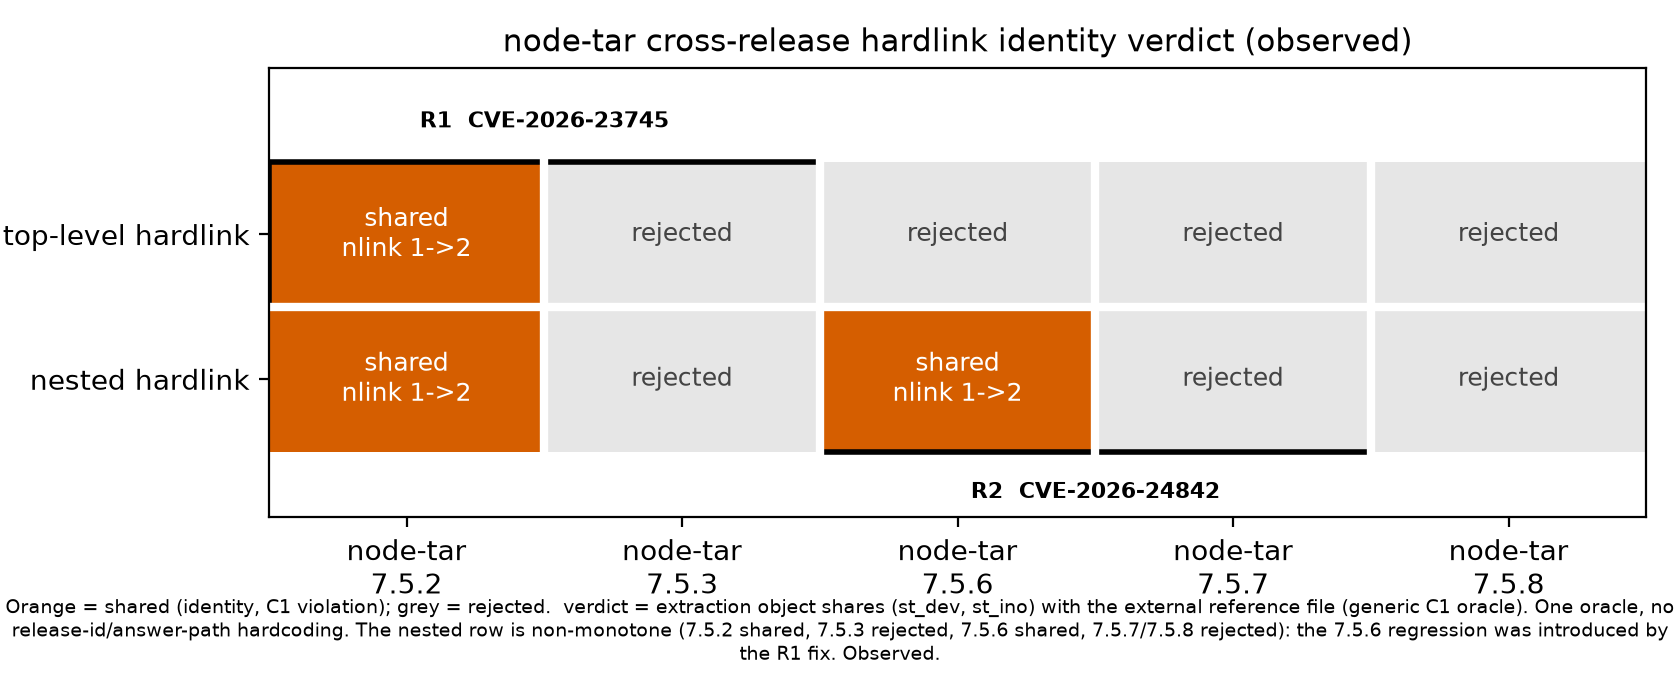
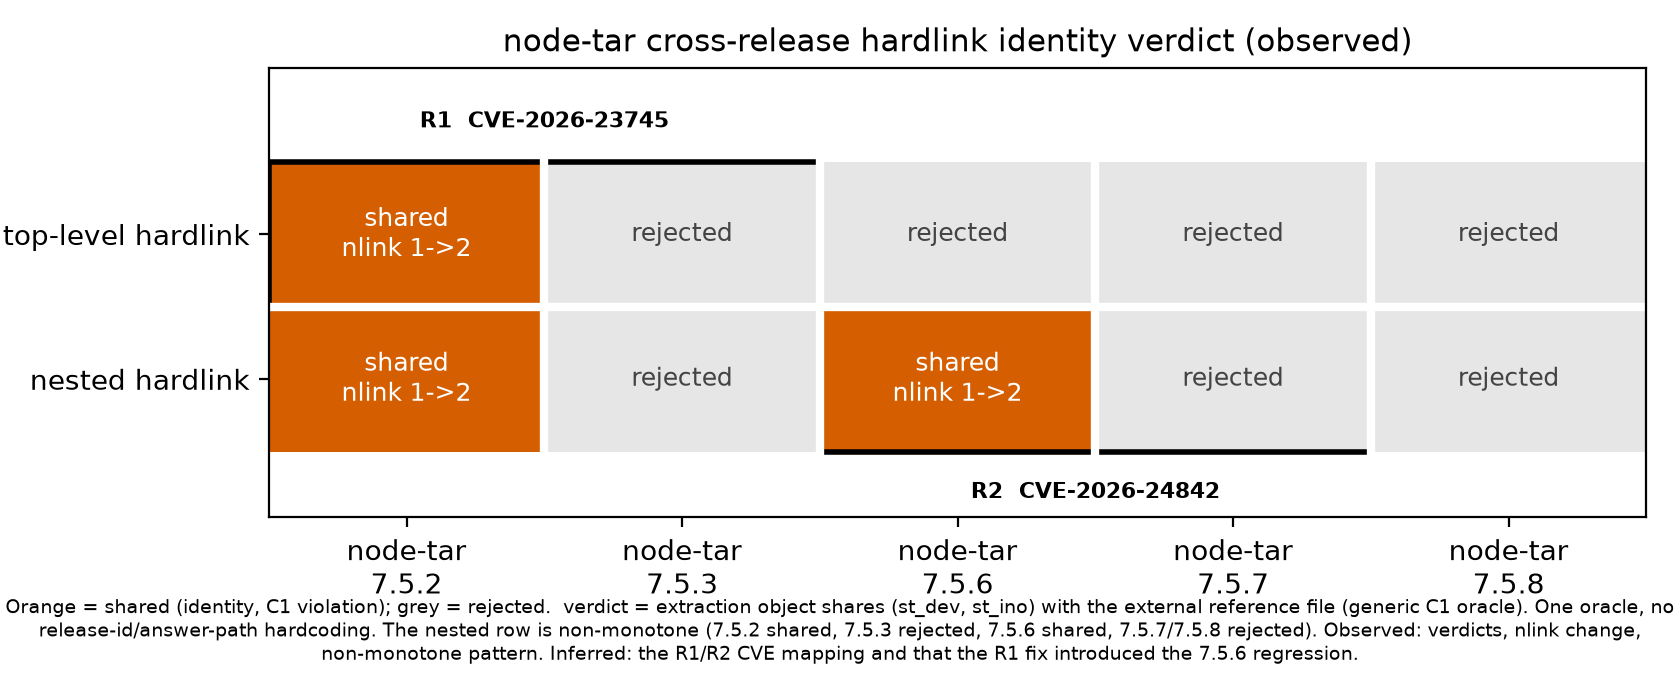
fix(paper): M3·M2 그림 재렌더 — 철회된 인과 문구 제거, inferred 서술 구분
수치는 그대로다.

- render_m3_blind_ablation.py: 제목·캡션·x축 라벨을 Ledger M3 판정(이름 획득 조건의
  관찰, 피드백 인과 미입증; 어휘 미통제)에 맞춘다. 그림 안은 영문이다(렌더 환경에 한글
  폰트 없음). W3 검토 수정 2건 반영: A1을 token-clean 어휘로 표기, 21 hit가 1 lineage이고
  막대 분모가 다르다는 문장 추가.
- render_m2_cross_release.py: 캡션의 회귀 인과 서술과 CVE 대응을 inferred로 구분한다.
- 표 M3 '읽는 법'과 그림 사양을 같은 판정으로 정정한다. 표 데이터 행은 그대로다.

머지 주의: #256 gen_table_m3.py의 SUFFIX가 표 M3 옛 문단을 복제한다. #256과 함께
머지하면 test_m3_render_byte_identical_to_committed와 --verify T-M3 행이 깨지므로
머지 때 SUFFIX를 새 본문에 맞춰야 한다. #256 브랜치는 수정하지 않았다.

Changed region(s): [[0.0, 0.8956, 0.9905, 0.9882]]

diff --git a/paper/figures/render_m3_blind_ablation.py b/paper/figures/render_m3_blind_ablation.py
@@ -18,13 +18,13 @@ from pathlib import Path
 import matplotlib.pyplot as plt
 
 ARMS = [
-    "A3full s11\n(identity obs ON)",
-    "A3blind s11\n(identity obs OFF)",
-    "A1 random floor\n(seeds 1-35)",
+    "A3full s11\n(external name in vocabulary)",
+    "A3blind s11\n(external name removed)",
+    "A1 token-clean vocabulary\nseeds 1-35\n(cannot spell the name)",
 ]
 HITS = [21, 0, 0]
 STEP_NOTES = ["416 steps (pre-abort)", "1475 steps", "33,005 steps"]
-BAR_COLORS = ["#D55E00", "#999999", "#999999"]  # vermillion = discovery; grey = floor
+BAR_COLORS = ["#D55E00", "#999999", "#999999"]  # vermillion = hits observed; grey = none observed
 
 
 def main() -> None:
@@ -38,7 +38,7 @@ def main() -> None:
     ax.set_ylabel("autonomous C1 hits  (C1 and contract_violated)")
     ax.set_ylim(0, 26)
     ax.set_title(
-        "M3: object-identity observation enables autonomous discovery (observed)",
+        "M3: autonomous C1 under the name-acquisition condition (observed)",
         fontsize=11,
     )
     ax.spines["top"].set_visible(False)
@@ -51,13 +51,17 @@ def main() -> None:
         ax.text(x, hits + 2.4, note, ha="center", va="bottom", fontsize=8, color="#333333")
 
     caption = (
-        "Causal contrast: feedback (identity observation) enables discovery; absent -> "
-        "unreachable. This is NOT a rate claim. The trigger is seed-rare (1 of 65 seeds). It "
-        "is not blind discovery (the fuzzer obtains the external name by observation; no "
-        "hardcoded target path / answer seed / proximity reward). node-tar 7.5.2, budget 1500."
+        "Observation under the name-acquisition condition; feedback causation is not established. "
+        "The arms differ in whether the external object's name is in the mutation vocabulary, so "
+        "vocabulary is not held equal and retention/effect feedback is not separated. This is NOT "
+        "a rate claim. The 21 hits are one lineage from one seed, in a run that aborted at step "
+        "416; bars have different denominators (416 / 1475 / 33,005 steps, aborted campaigns "
+        "included). The trigger is seed-rare (1 of 65 seeds). It is not blind discovery (the "
+        "fuzzer obtains the external name by observation; no hardcoded target path / answer seed "
+        "/ proximity reward). node-tar 7.5.2, budget 1500."
     )
     fig.text(0.5, 0.015, caption, ha="center", va="bottom", fontsize=7, wrap=True)
-    fig.subplots_adjust(left=0.1, right=0.97, top=0.9, bottom=0.26)
+    fig.subplots_adjust(left=0.1, right=0.97, top=0.9, bottom=0.36)
     fig.savefig(out_path, dpi=200)
     plt.close(fig)
     print(f"wrote {out_path}")

diff --git a/paper/figures/render_m2_cross_release.py b/paper/figures/render_m2_cross_release.py
@@ -82,8 +82,9 @@ def main() -> None:
         "Orange = shared (identity, C1 violation); grey = rejected.  "
         "verdict = extraction object shares (st_dev, st_ino) with the external reference file "
         "(generic C1 oracle). One oracle, no release-id/answer-path hardcoding. The nested row "
-        "is non-monotone (7.5.2 shared, 7.5.3 rejected, 7.5.6 shared, 7.5.7/7.5.8 rejected): the "
-        "7.5.6 regression was introduced by the R1 fix. Observed."
+        "is non-monotone (7.5.2 shared, 7.5.3 rejected, 7.5.6 shared, 7.5.7/7.5.8 rejected). "
+        "Observed: verdicts, nlink change, non-monotone pattern. Inferred: the R1/R2 CVE mapping "
+        "and that the R1 fix introduced the 7.5.6 regression."
     )
     fig.text(0.5, 0.02, caption, ha="center", va="bottom", fontsize=7, wrap=True)
     fig.subplots_adjust(left=0.16, right=0.98, top=0.9, bottom=0.24)

diff --git a/paper/figures/m3-blind-ablation-figure-spec.md b/paper/figures/m3-blind-ablation-figure-spec.md
@@ -11,29 +11,30 @@ experiment config → commit 추적 가능).
 
 ## 의도한 그림
 
-node-tar 7.5.2, budget 1500에서 세 비교 셀의 **자율 C1 hit 수**를 나타내는 막대그래프. 발견이
-**관찰(feedback)이 있을 때만** 일어난다는 인과를 한눈에 보인다.
-(2026-11-03 정정: 이 blind 대조는 피드백이 아니라 **어휘**를 통제한 실험이다. 입증된 것은 "외부 객체 이름의 관찰(어휘 획득)이 자율 C1의 필요조건"이지 (st_dev, st_ino) retention·스케줄링 피드백의 기여가 아니며, 그 기여는 어휘를 맞춘 R/D/S-u 비교(research-questions v2 H-A)로 미분리다. 수치·서술은 보존한다. 상세: §5.3.2 정정.) 그림이 보이는 것은 "외부 객체 이름을 어휘에 넣은 A3full에서만 관찰"이라는 **이름 획득 조건
-대조**다. PNG·렌더 스크립트·수치는 그대로 둔다.
+node-tar 7.5.2, budget 1500에서 세 비교 셀의 **자율 C1 hit 수**를 나타내는 막대그래프. 외부 객체 이름을 어휘에 넣은
+A3full에서만 관찰됐다는 **이름 획득 조건 대조**를 보인다. 판정은 **이름 획득 조건의 관찰(피드백 인과 미입증)**이다.
+*(구: "발견이 관찰(feedback)이 있을 때만 일어난다는 인과", 2026-11-03 정정)*
+(2026-11-03 정정: 이 blind 대조는 피드백이 아니라 **어휘**를 통제한 실험이다. 입증된 것은 "외부 객체 이름의 관찰(어휘 획득)이 자율 C1의 필요조건"이지 (st_dev, st_ino) retention·스케줄링 피드백의 기여가 아니며, 그 기여는 어휘를 맞춘 R/D/S-u 비교(research-questions v2 H-A)로 미분리다. 수치·서술은 보존한다. 상세: §5.3.2 정정.)
+수치는 그대로 두고, 2026-11-06에 PNG와 렌더 스크립트의 제목·캡션·x축 라벨을 이 정정에 맞췄다.
 
 ## 데이터 (observed, 그대로 사용)
 
 | 막대(arm·seed) | 기록 step 수 | 자율 C1 hit |
 | --- | --- | --- |
-| A3full s11 (identity 관찰 O) | 416 (abort 전) | 21 |
-| A3blind s11 (identity 관찰 X) | 1475 | 0 |
-| A1 random floor (seed 1–35 합산) | 33,005 | 0 |
+| A3full s11 (외부 이름 어휘 포함) | 416 (abort 전) | 21 |
+| A3blind s11 (외부 이름 제외) | 1475 | 0 |
+| A1 token-clean 어휘 (표 M3의 "A1 random floor", seed 1–35 합산, 이름 철자 불가) | 33,005 | 0 |
 
 ## 인코딩 지침
 
 - y축 = 자율 C1 hit 수(0–25 권장). x축 = 세 막대.
 - 각 막대 아래/위에 기록 step 수를 주석으로 병기(0 hit가 "실행을 적게 해서"가 아님을 보이기 위해:
   A3blind 1475 step·A1 33,005 step에도 0).
-- 캡션에 반드시 포함: (1) 이는 **인과**(없으면 도달 불가)이지 **rate 우위가 아니다**, (2) 자율
-  트리거는 **seed-rare**(65 seed 중 s11 하나), (3) **blind 발견이 아니다**.
-  (2026-11-03 정정: (1)의 "인과"는 "이름 획득 조건의 대조(피드백 인과 아님)"로 읽는다 — 캡션 문구를
-  새로 쓸 때는 "외부 객체 이름의 관찰(어휘 획득)이 자율 C1의 필요조건"으로 적고, retention·스케줄링
-  피드백 기여는 R/D/S-u로 미분리임을 병기한다.)
+- 캡션에 반드시 포함: (1) 이는 **이름 획득 조건의 관찰(피드백 인과 미입증)**이고, 어휘를 맞추지 않아 retention·effect
+  피드백 기여는 R/D/S-u로 미분리이며, **rate 우위가 아니다**, (2) 21 hit는 한 seed의 1 lineage이고 막대마다 분모가 다르다,
+  (3) 자율 트리거는 **seed-rare**(65 seed 중 s11 하나), (4) **blind 발견이 아니다**.
+  *(구: (1) "이는 인과(없으면 도달 불가)", 2026-11-03 정정)*
+- 그림 안 문구는 영문이다(렌더 환경에 한글 폰트가 없다). 한글 Ledger 문구는 표 M3와 §5.3 본문 캡션에 둔다.
 - 색/스타일은 저장소 정식 figure 생성 단계에서 정하되 위 수치·캡션 요건은 불변.
 
 ## 렌더 메모

diff --git a/paper/tables/m3-blind-ablation.md b/paper/tables/m3-blind-ablation.md
@@ -35,12 +35,17 @@ arm 정의: `A3full` = `uniform-generic-m1-state-aware-escape-hardlink-v1`; `A3b
 s11 run은 step 416에서 evidence-integrity 검사로 abort(returncode 1)하지만 21건의 hit는 **abort
 이전**에 기록된 step이다(producer abort-drain). process returncode 1을 "발견 없음"으로 읽지 않는다.
 
-## 읽는 법 (인과, rate 아님)
+## 읽는 법 (이름 획득 조건의 대조; 피드백 인과·rate 아님)
 
-세 바닥(A3blind s11 = 0 · A1 random floor = 0) 대비 A3full s11 = 21이 보이는 것은 **"object-identity
-관찰(feedback)이 없으면 도달 불가, 있으면 도달"**이라는 **인과**다. 이는 **rate 우위가 아니다**
-(§5.3.3 powered 판정: 매칭 Wilson CI 미분리). 자율 트리거는 이 그림의 budget 1500·seed 1–65에선
-s11 하나(seed-rare)이나 powered 런에서 신규 disjoint seed s101로 재현돼 멀티-seed로 강화됐고,
-**blind 발견이 아니다**(퍼저는 외부 객체 이름을 관찰로 얻는다; 하드코딩 없음, §5.3.2).
+판정은 **이름 획득 조건의 관찰(피드백 인과 미입증)**이다. 세 셀은 외부 객체 이름이 mutation 어휘에 있느냐가 다르다.
+A3full s11 = 21은 이름을 어휘에 넣은 조건의 관찰이고, 이름을 뺀 A3blind s11 = 0과 이름을 철자할 수 없는 A1 = 0은 그 조건
+밖의 미관찰이다. "A1 random floor"는 기존 셀 이름이다. A1도 feedback retention 탐색을 쓰므로 탐색 자체가 무작위라는 뜻은
+아니다([verdict v2](../../experiments/summaries/m3-powered-matched-verdict-v2.md) Arms). 어휘 미통제라 retention·effect 피드백 인과는
+미입증이며, 그 기여는 어휘를 맞춘 R/D/S-u 비교로 아직 분리되지 않았다. 이는 **rate 우위도 아니다**(§5.3.3 powered 판정: 매칭
+Wilson CI 미분리). 21 hit는 한 seed의 1 lineage이고 셀마다 분모(step 수)가 다르다(§5.3.1). 자율 트리거는 이 그림의 budget
+1500·seed 1–65에선 s11 하나(seed-rare)이고 powered 런의 신규 disjoint seed s101에서도 관찰됐지만, 동일 어휘 통제가 없으므로
+피드백 인과의 강화는 아니다. **blind 발견이 아니다**(퍼저는 외부 객체 이름을 관찰로 얻는다; 하드코딩 없음, §5.3.2).
+
+*(구: "object-identity 관찰(feedback)이 없으면 도달 불가, 있으면 도달"이라는 인과, 2026-11-03 정정을 2026-11-06 본문에 반영.)*
 
 (2026-11-03 정정: 이 blind 대조는 피드백이 아니라 **어휘**를 통제한 실험이다. 입증된 것은 "외부 객체 이름의 관찰(어휘 획득)이 자율 C1의 필요조건"이지 (st_dev, st_ino) retention·스케줄링 피드백의 기여가 아니며, 그 기여는 어휘를 맞춘 R/D/S-u 비교(research-questions v2 H-A)로 미분리다. 수치·서술은 보존한다. 상세: §5.3.2 정정.) 이 표의 세 셀은 어휘(이름 포함 여부)가 다른 셀이므로, 읽는 법은 "이름 획득 조건의 대조"다.
